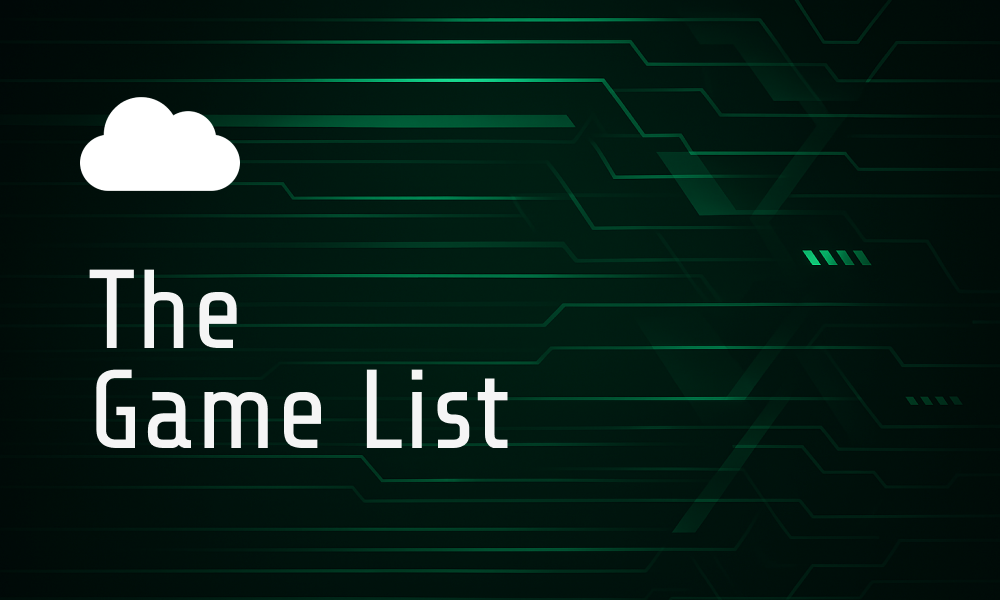
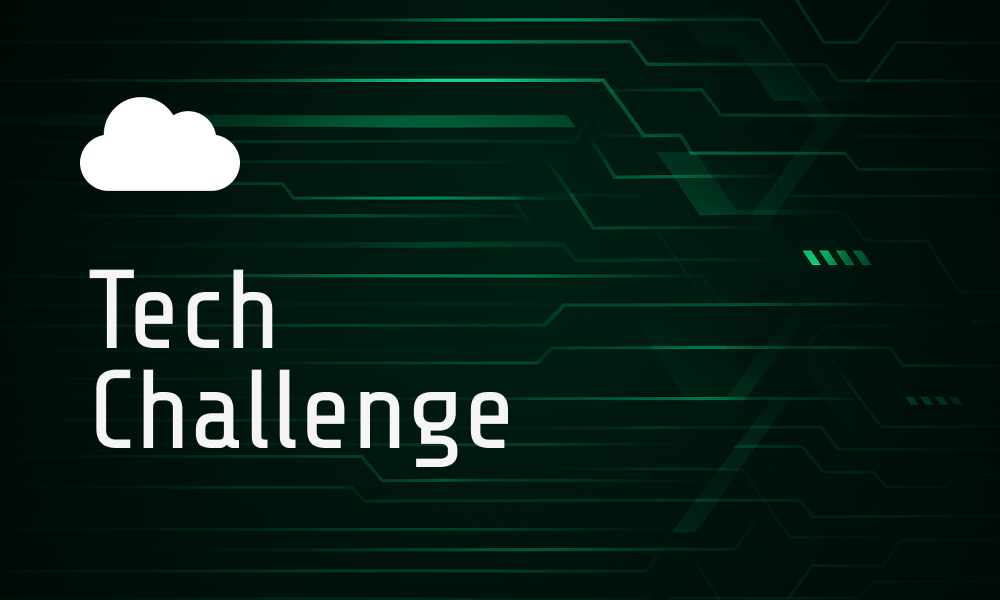
Ajuste projetos site

Changed region(s): [[0.093, 0.45, 0.527, 0.78]]

diff --git a/site/index.html b/site/index.html
@@ -78,8 +78,8 @@
                     <h1>P<span class="text_menu_second">rojects</span></h1>
                     <div class="menu_projects">
                         <a href="https://github.com/NicoMartinns/resume-cloud-challenge" target="_blank" rel="noopener noreferrer"><img src="./img/project1.png" class="item_menu_projects"></a>
+                        <a href="https://github.com/NicoMartinns/tech-challenge-nicolas" target="_blank" rel="noopener noreferrer"><img src="./img/project3.png" class="item_menu_projects"></a>
                         <a href="https://github.com/NicoMartinns/hangman-game" target="_blank" rel="noopener noreferrer"><img src="./img/project2.png" class="item_menu_projects"></a>
-                        <a href="https://github.com/NicoMartinns/game_list" target="_blank" rel="noopener noreferrer"><img src="./img/project3.png" class="item_menu_projects"></a>
                         <a href="https://github.com/NicoMartinns/docker-terraform-ec2-congrats" target="_blank" rel="noopener noreferrer"><img src="./img/project4.png" class="item_menu_projects"></a>
                     </section>
                     <!- FIM PROJECTS ->
